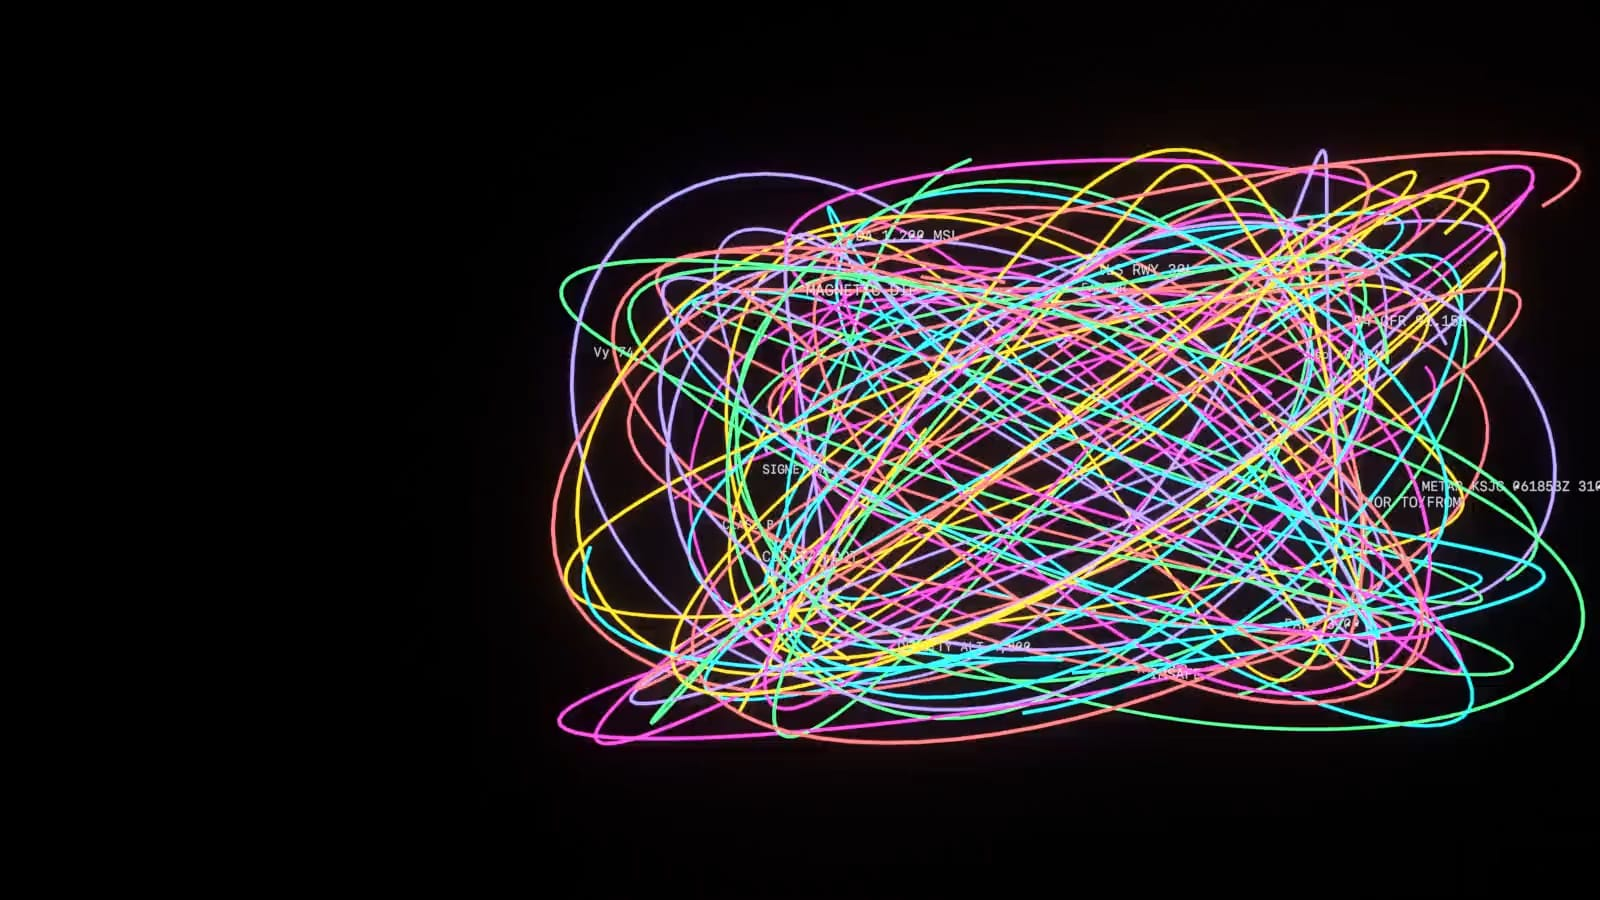
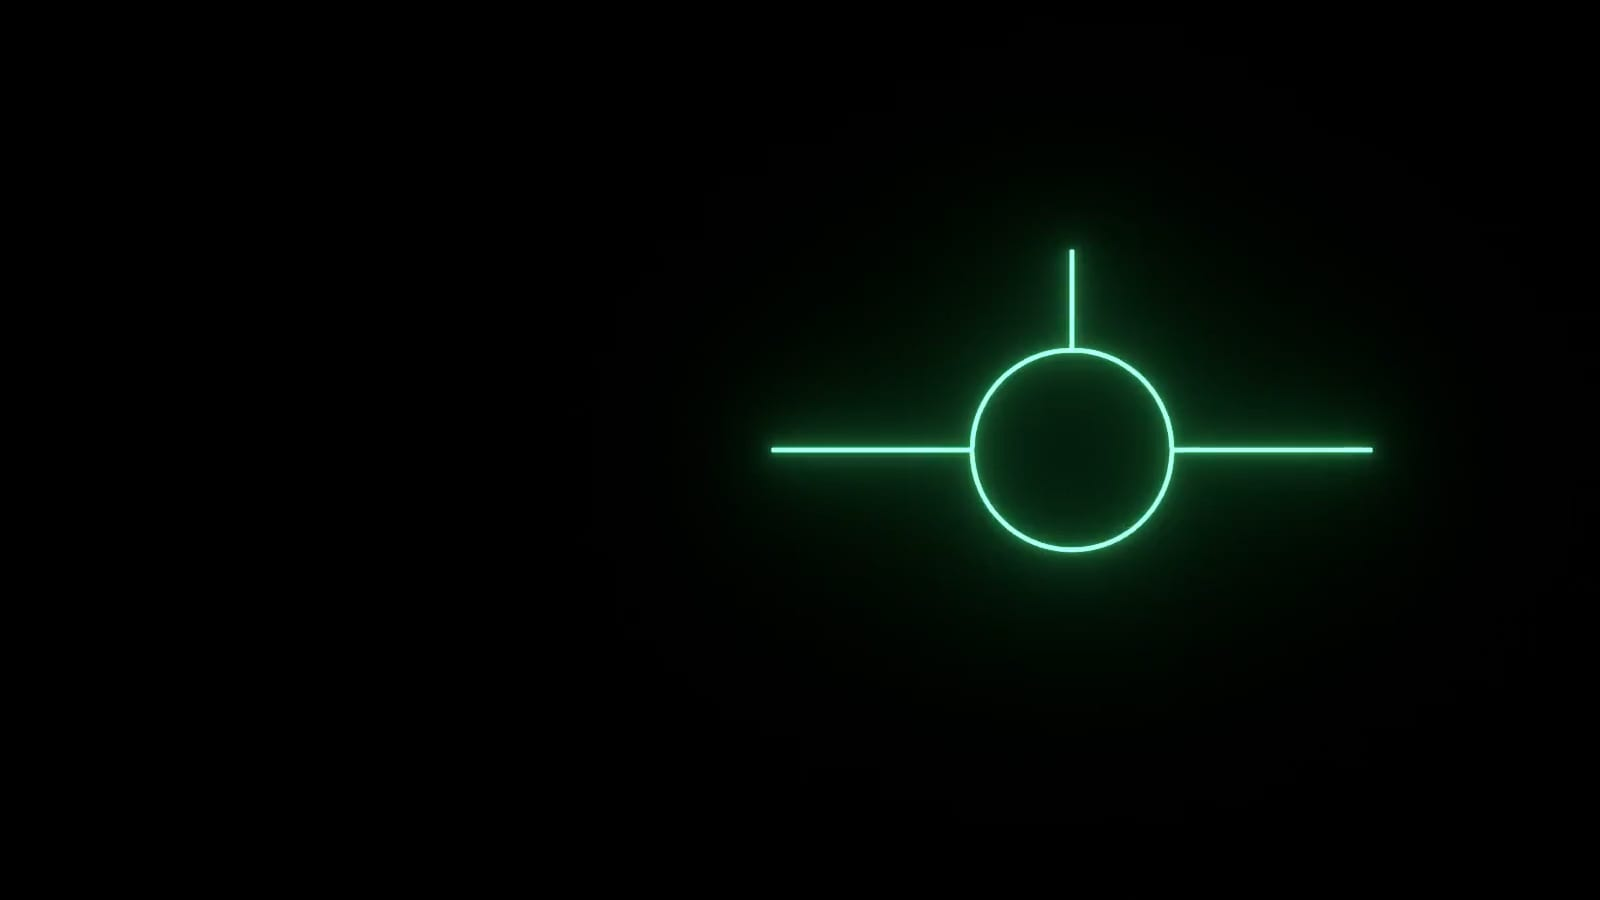
Hero never shows a play button; tighter game section on phones
- The loop sits over a still of the finished marker and stays invisible until
  frames are actually playing, so blocked autoplay (iOS Low Power Mode) shows
  the still instead of the browser's play button. Starts from the hold frame.
- Phones: no scroll-settle shrink on the game, near full-width display,
  one-row level ladder, shorter footnote.

diff --git a/src/components/hero-untangle.tsx b/src/components/hero-untangle.tsx
@@ -4,12 +4,16 @@ import { useEffect, useRef } from "react";
 
 // "Aviation, made simple": an Eevee-rendered loop (design/blender/untangle.py)
 // of tangled flight paths and jargon collapsing into the flight path marker.
-// Holds on the first frame for people who prefer reduced motion.
+//
+// A still of the finished marker sits underneath, and the video stays
+// invisible until it is actually playing. When a phone refuses to autoplay
+// (iPhone Low Power Mode), visitors see the still, never a play button.
 //
 // The <video> is written as raw HTML on purpose: React sets `muted` as a
-// property, not an attribute, so iPhones see an unmuted video in the server
-// HTML and refuse to autoplay it (showing a play button instead).
+// property, not an attribute, and iOS only autoplays videos whose server
+// markup says muted.
 const ARIA = "A tangle of colored flight paths and aviation jargon untangling into one clean flight path marker, then tangling again.";
+const HOLD = 4.6; // seconds into the loop where the marker is fully formed (matches the still)
 
 export function HeroUntangle({ className }: { className?: string }) {
   const wrap = useRef<HTMLDivElement>(null);
@@ -19,33 +23,57 @@ export function HeroUntangle({ className }: { className?: string }) {
     if (!v) return;
     v.muted = true;
     const reduce = window.matchMedia("(prefers-reduced-motion: reduce)");
-    // Low Power Mode on iPhone blocks autoplay; start on the first touch instead.
-    const kick = () => {
-      if (!reduce.matches) v.play().catch(() => {});
+    const show = () => v.style.setProperty("opacity", "1");
+    const hide = () => v.style.setProperty("opacity", "0");
+    const play = () => {
+      if (reduce.matches) return;
+      v.play().catch(() => {});
+    };
+    // Start where the still leaves off, so the switch is invisible.
+    const seek = () => {
+      if (v.paused && v.currentTime < 0.1) v.currentTime = HOLD;
+    };
+    // Shown once frames are actually advancing (autoplay may have started
+    // before this script ran, so "playing" alone can be missed).
+    const onTime = () => {
+      if (!v.paused && v.currentTime > 0) show();
     };
     const apply = () => {
-      if (reduce.matches) v.pause();
-      else v.play().catch(() => {
-        window.addEventListener("touchstart", kick, { once: true, passive: true });
-        window.addEventListener("scroll", kick, { once: true, passive: true });
-      });
+      if (reduce.matches) {
+        v.pause();
+        hide();
+      } else {
+        play();
+      }
     };
-    apply();
+    if (v.readyState >= 1) seek();
+    v.addEventListener("loadedmetadata", seek);
+    v.addEventListener("playing", show);
+    v.addEventListener("timeupdate", onTime);
+    onTime();
+    // Low Power Mode blocks autoplay but allows it after a touch.
+    window.addEventListener("touchend", play, { passive: true });
     reduce.addEventListener("change", apply);
+    apply();
     return () => {
+      v.removeEventListener("loadedmetadata", seek);
+      v.removeEventListener("playing", show);
+      v.removeEventListener("timeupdate", onTime);
+      window.removeEventListener("touchend", play);
       reduce.removeEventListener("change", apply);
-      window.removeEventListener("touchstart", kick);
-      window.removeEventListener("scroll", kick);
     };
   }, []);
 
   return (
-    <div
-      ref={wrap}
-      className={className}
-      dangerouslySetInnerHTML={{
-        __html: `<video class="hero-video h-full w-full object-cover object-[inherit]" src="/hero-untangle.mp4" poster="/hero-untangle.jpg" autoplay muted loop playsinline webkit-playsinline preload="auto" disablepictureinpicture disableremoteplayback aria-label="${ARIA}"></video>`,
-      }}
-    />
+    <div ref={wrap} className={className}>
+      {/* eslint-disable-next-line @next/next/no-img-element */}
+      <img src="/hero-untangle.jpg" alt="" aria-hidden className="absolute inset-0 h-full w-full object-cover object-[inherit]" />
+      <div
+        className="absolute inset-0 object-[inherit]"
+        dangerouslySetInnerHTML={{
+          __html: `<video class="hero-video h-full w-full object-cover object-[inherit]" style="opacity:0;transition:opacity .6s ease" src="/hero-untangle.mp4" autoplay muted loop playsinline webkit-playsinline preload="auto" disablepictureinpicture disableremoteplayback aria-label="${ARIA}"></video>`,
+        }}
+      />
+    </div>
   );
 }

diff --git a/src/components/level-ladder.tsx b/src/components/level-ladder.tsx
@@ -5,7 +5,7 @@ export function LevelLadder() {
   const maxRing = LEVELS[0].ringRadius;
   const maxWind = Math.max(...LEVELS.map((l) => l.wind + l.gust));
   return (
-    <ol className="grid grid-cols-5 gap-2 md:grid-cols-10" aria-label="The ten levels">
+    <ol className="grid grid-cols-10 gap-1 md:gap-2" aria-label="The ten levels">
       {LEVELS.map((level) => {
         const ring = 10 + (level.ringRadius / maxRing) * 22; // px radius
         const gusts = level.wind + level.gust;
@@ -13,17 +13,18 @@ export function LevelLadder() {
           <li
             key={level.number}
             title={`Level ${level.number}: ${level.name}`}
-            className="group flex flex-col items-center gap-3 rounded-2xl bg-card px-2 pb-3 pt-4 text-center transition-colors hover:bg-raised"
+            className="group flex flex-col items-center gap-1.5 rounded-xl bg-card px-0.5 pb-2 pt-2.5 text-center transition-colors hover:bg-raised md:gap-3 md:rounded-2xl md:px-2 md:pb-3 md:pt-4"
           >
-            <span className="font-mono text-[11px] tracking-[.1em] text-dim group-hover:text-cyan">L{level.number}</span>
-            <svg viewBox="0 0 72 72" className="h-14 w-14 md:h-16 md:w-16" aria-hidden>
+            <span className="font-mono text-[9px] tracking-[.06em] text-dim group-hover:text-cyan md:text-[11px] md:tracking-[.1em]">L{level.number}</span>
+            <svg viewBox="0 0 72 72" className="h-7 w-7 md:h-16 md:w-16" aria-hidden>
               <circle cx="36" cy="36" r={ring} fill="none" stroke="#f048c8" strokeWidth={3} opacity={0.35 + (level.number / 10) * 0.65} />
             </svg>
-            <div className="flex h-10 w-2 items-end overflow-hidden rounded-full bg-white/10" aria-hidden>
+            <div className="flex h-6 w-1.5 items-end overflow-hidden rounded-full bg-white/10 md:h-10 md:w-2" aria-hidden>
               <div className="w-full rounded-full bg-cyan" style={{ height: `${Math.max(6, (gusts / maxWind) * 100)}%` }} />
             </div>
-            <span className="font-mono text-[10px] leading-tight text-mute md:text-[11px]">
-              {level.wind ? `${level.wind}${level.gust ? `G${gusts}` : ""} KT` : "CALM"}
+            <span className="font-mono text-[8px] leading-tight text-mute md:text-[11px]">
+              {level.wind ? `${level.wind}${level.gust ? `G${gusts}` : ""}` : "CALM"}
+              {level.wind ? <span className="hidden md:inline"> KT</span> : null}
             </span>
             <span className="hidden truncate text-[11px] leading-tight text-soft md:block md:max-w-full">{level.name}</span>
           </li>

diff --git a/src/components/pfd/pfd.tsx b/src/components/pfd/pfd.tsx
@@ -1029,13 +1029,13 @@ export function Pfd() {
         </div>
       </div>
 
-      <div className="mt-5 flex flex-col items-center gap-2 text-center font-mono text-[11px] tracking-[.1em] text-dim md:text-[12px]">
+      <div className="mt-3 flex flex-col items-center gap-2 px-4 text-center font-mono text-[11px] tracking-[.1em] text-dim md:mt-5 md:px-0 md:text-[12px]">
         <p className="hidden md:block">
           <span className="text-ink">R</span> NEW RUN · <span className="text-ink">MOUSE</span> YOKE · <span className="text-ink">W/S</span> POWER ·{" "}
           <span className="text-ink">F/V</span> FLAPS · <span className="text-ink">A</span> AUTOPILOT
         </p>
         <p className="md:hidden">RIGHT THUMB FLIES · LEFT THUMB POWER &amp; FLAPS · NEW RUN FOR A SCORED RUN</p>
-        <p className="max-w-[640px] text-[10px] leading-relaxed md:text-[11px]">
+        <p className="hidden max-w-[640px] text-[11px] leading-relaxed md:block">
           TEN LANDINGS IN A ROW. THE RINGS SHRINK, THE WIND BUILDS AND THE LAND-BY LINE CREEPS TOWARD YOU. MISS A RING, LAND PAST THE LINE OR BREAK A LIMIT AND IT&apos;S BACK TO LEVEL 1.
         </p>
       </div>

diff --git a/src/app/globals.css b/src/app/globals.css
@@ -405,10 +405,13 @@ html {
 
 /* Apple-style scroll zoom: the display settles into place as it arrives. */
 @supports (animation-timeline: view()) {
-  .scroll-settle {
-    animation: settle linear both;
-    animation-timeline: view();
-    animation-range: entry 0% cover 35%;
+  /* Big screens only: on a phone it just leaves the game small and floating. */
+  @media (min-width: 768px) {
+    .scroll-settle {
+      animation: settle linear both;
+      animation-timeline: view();
+      animation-range: entry 0% cover 35%;
+    }
   }
   @keyframes settle {
     from {

diff --git a/src/components/leaderboard-section.tsx b/src/components/leaderboard-section.tsx
@@ -25,7 +25,7 @@ export async function GameSection({ children }: { children: React.ReactNode }) {
           intro="The rings shrink, the wind builds and the land-by line creeps toward you. On a computer, hover the display to fly and press R for a scored run. On a phone, fly with the thumb pad under it."
         />
 
-        <div className="flex justify-center">{children}</div>
+        <div className="-mx-4 flex justify-center md:mx-0">{children}</div>
 
         {contest && live && (
           <div className="reveal flex flex-col items-center gap-1 text-center">
